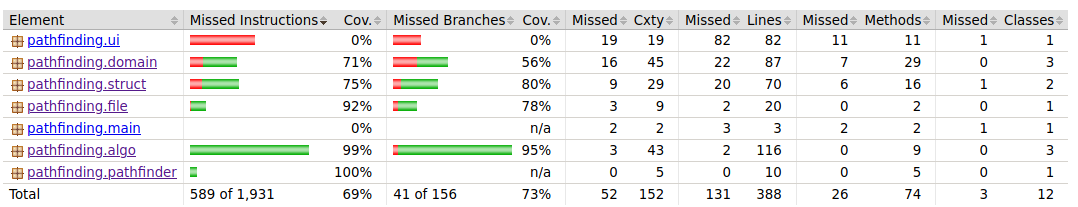
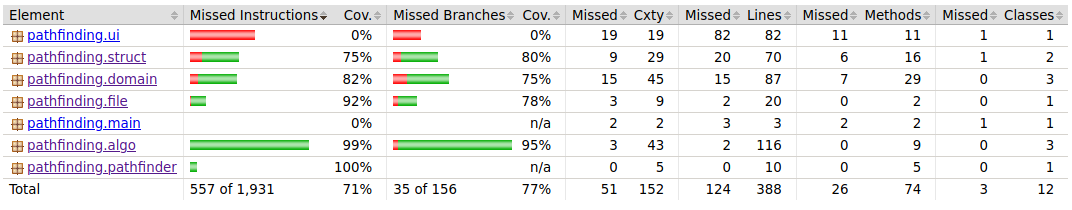
updated jacoco picture and testdocument

diff --git a/dokumentaatio/testausdokumentti.md b/dokumentaatio/testausdokumentti.md
@@ -12,4 +12,4 @@ Tällä hetkellä ohjelmassa on automaattisia testejä seuraaville luokille: ASt
 
 ![testikattavuus](testikattavuus190221.png)
 
-Testien rivikattavuus on tällä hetkellä 69 prosenttia ja haaraumakatavuus 73 prosenttia.
+Testien rivikattavuus on tällä hetkellä 71 prosenttia ja haaraumakatavuus 77 prosenttia.
